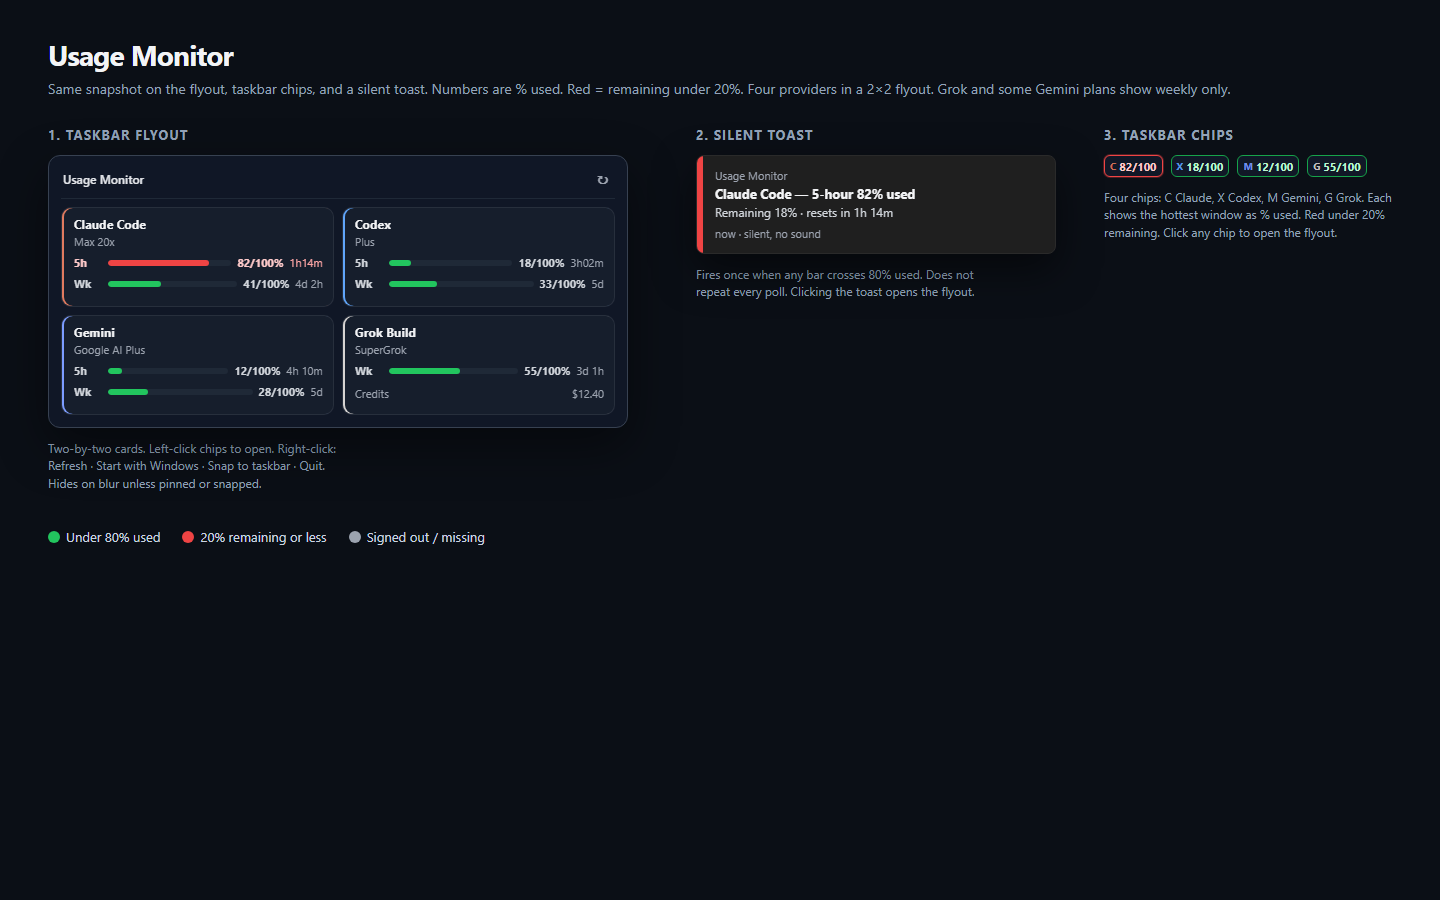
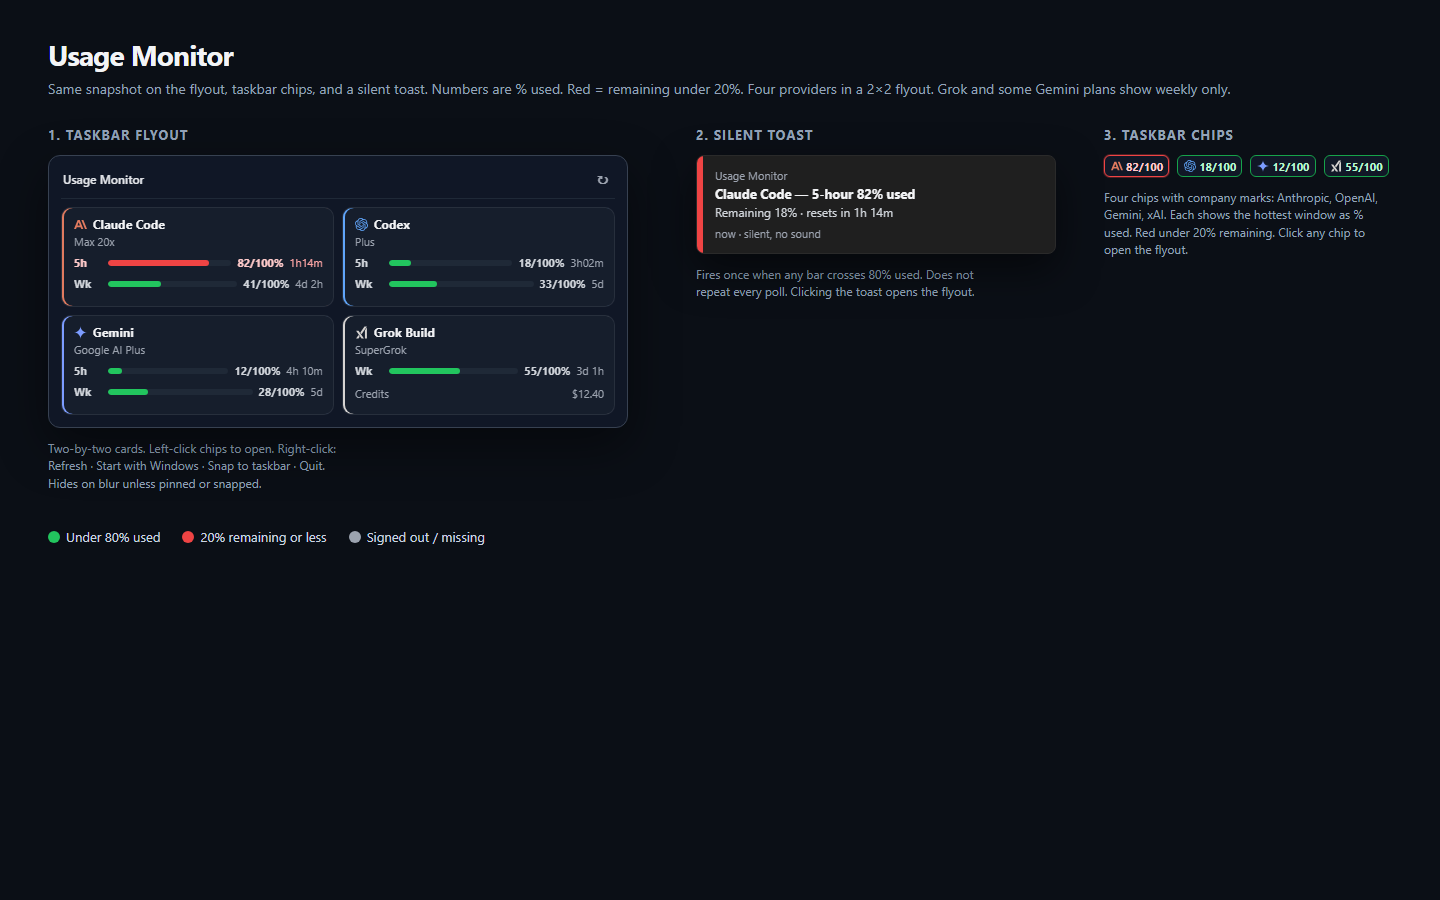
Show company marks on chips and flyout instead of letter initials.
Use the Anthropic, OpenAI, Gemini, and xAI symbols in the live UI and refresh the README screenshots to match.

diff --git a/src/ui/format.js b/src/ui/format.js
@@ -70,6 +70,23 @@ function formatUsedTotal(win, compact) {
   return compact ? `${used}/100` : `${used}/100%`;
 }
 
+const MARKS = {
+  claude:
+    "M17.304 3.541h-3.672l6.696 16.918H24Zm-10.608 0L0 20.459h3.744l1.37-3.553h7.005l1.369 3.553h3.744L10.536 3.541Zm-.371 10.223 2.291-5.946 2.292 5.946Z",
+  codex:
+    "M22.2819 9.8211a5.9847 5.9847 0 0 0-.5157-4.9108 6.0462 6.0462 0 0 0-6.5098-2.9A6.0651 6.0651 0 0 0 4.9807 4.1818a5.9847 5.9847 0 0 0-3.9977 2.9 6.0462 6.0462 0 0 0 .7427 7.0966 5.98 5.98 0 0 0 .511 4.9107 6.051 6.051 0 0 0 6.5146 2.9001A5.9847 5.9847 0 0 0 13.2599 24a6.0557 6.0557 0 0 0 5.7718-4.2058 5.9894 5.9894 0 0 0 3.9977-2.9001 6.0557 6.0557 0 0 0-.7475-7.0729zm-9.022 12.6081a4.4755 4.4755 0 0 1-2.8764-1.0408l.1419-.0804 4.7783-2.7582a.7948.7948 0 0 0 .3927-.6813v-6.7369l2.02 1.1686a.071.071 0 0 1 .038.052v5.5826a4.504 4.504 0 0 1-4.4945 4.4944zm-9.6607-4.1254a4.4708 4.4708 0 0 1-.5346-3.0137l.142.0852 4.783 2.7582a.7712.7712 0 0 0 .7806 0l5.8428-3.3685v2.3324a.0804.0804 0 0 1-.0332.0615L9.74 19.9502a4.4992 4.4992 0 0 1-6.1408-1.6464zM2.3408 7.8956a4.485 4.485 0 0 1 2.3655-1.9728V11.6a.7664.7664 0 0 0 .3879.6765l5.8144 3.3543-2.0201 1.1685a.0757.0757 0 0 1-.071 0l-4.8303-2.7865A4.504 4.504 0 0 1 2.3408 7.872zm16.5963 3.8558L13.1038 8.364 15.1192 7.2a.0757.0757 0 0 1 .071 0l4.8303 2.7913a4.4944 4.4944 0 0 1-.6765 8.1042v-5.6772a.79.79 0 0 0-.407-.667zm2.0107-3.0231l-.142-.0852-4.7735-2.7818a.7759.7759 0 0 0-.7854 0L9.409 9.2297V6.8974a.0662.0662 0 0 1 .0284-.0615l4.8303-2.7866a4.4992 4.4992 0 0 1 6.6802 4.66zM8.3065 12.863l-2.02-1.1638a.0804.0804 0 0 1-.038-.0567V6.0742a4.4992 4.4992 0 0 1 7.3757-3.4537l-.142.0805L8.704 5.459a.7948.7948 0 0 0-.3927.6813zm1.0976-2.3654l2.602-1.4998 2.6069 1.4998v2.9994l-2.5974 1.4997-2.6067-1.4997Z",
+  gemini:
+    "M11.04 19.32Q12 21.51 12 24q0-2.49.93-4.68.96-2.19 2.58-3.81t3.81-2.55Q21.51 12 24 12q-2.49 0-4.68-.93a12.3 12.3 0 0 1-3.81-2.58 12.3 12.3 0 0 1-2.58-3.81Q12 2.49 12 0q0 2.49-.96 4.68-.93 2.19-2.55 3.81a12.3 12.3 0 0 1-3.81 2.58Q2.49 12 0 12q2.49 0 4.68.96 2.19.93 3.81 2.55t2.55 3.81",
+  grok: "M6.469 8.776 16.512 23h-4.464L2.005 8.776H6.47zm-.004 7.9 2.233 3.164L6.467 23H2l4.465-6.324zM22 2.582V23h-3.659V7.764L22 2.582zM22 1l-9.952 14.095-2.233-3.163L17.533 1H22z",
+};
+
+function mark(id) {
+  const d = MARKS[id] || MARKS.grok;
+  const title =
+    id === "claude" ? "Anthropic" : id === "codex" ? "OpenAI" : id === "gemini" ? "Google Gemini" : "xAI";
+  return `<svg class="brand-mark" viewBox="0 0 24 24" fill-rule="evenodd" aria-hidden="true" focusable="false"><title>${title}</title><path fill="currentColor" d="${d}"/></svg>`;
+}
+
 function letter(id) {
   if (id === "claude") return "C";
   if (id === "codex") return "X";

diff --git a/src/ui/shared.css b/src/ui/shared.css
@@ -104,8 +104,9 @@ html.fit, html.fit body {
   min-width: 276px;
   background: rgba(31, 41, 55, 0.45); border: 1px solid #273244; border-radius: 10px;
 }
-.p-head { display: flex; flex-direction: row; align-items: baseline; justify-content: space-between; gap: 8px; margin-bottom: 6px; }
-.p-name { font-size: 12px; font-weight: 650; }
+.p-head { display: flex; flex-direction: row; align-items: center; justify-content: space-between; gap: 8px; margin-bottom: 6px; }
+.p-name { font-size: 12px; font-weight: 650; display: inline-flex; align-items: center; gap: 6px; }
+.brand-mark { width: 13px; height: 13px; flex: 0 0 13px; display: block; }
 .overlay .p-name { font-size: 13px; }
 .p-plan { font-size: 11px; color: var(--muted); }
 .accent-claude { box-shadow: inset 2px 0 0 var(--claude); }
@@ -221,11 +222,19 @@ html.fit, html.fit body {
   font-size: 11px; font-weight: 700; font-variant-numeric: tabular-nums; cursor: pointer;
   white-space: nowrap; flex: 0 0 auto;
 }
-.pct-icon .who { font-weight: 650; opacity: 0.9; font-size: 10px; }
+.pct-icon .who {
+  display: inline-flex; align-items: center; justify-content: center;
+  width: 13px; height: 13px; flex: 0 0 13px;
+}
+.pct-icon .who .brand-mark { width: 12px; height: 12px; }
 .pct-icon[data-id="claude"] .who { color: var(--claude); }
 .pct-icon[data-id="codex"] .who { color: var(--codex); }
 .pct-icon[data-id="gemini"] .who { color: var(--gemini); }
 .pct-icon[data-id="grok"] .who { color: var(--grok); }
+.accent-claude .p-name .brand-mark { color: var(--claude); }
+.accent-codex .p-name .brand-mark { color: var(--codex); }
+.accent-gemini .p-name .brand-mark { color: var(--gemini); }
+.accent-grok .p-name .brand-mark { color: var(--grok); }
 .pct-icon.red { color: #fecaca; border-color: #ef4444; }
 .pct-icon.green { color: #bbf7d0; border-color: #16a34a; }
 .pct-icon.gray { color: #9ca3af; border-color: #6b7280; }

diff --git a/src/ui/flyout.js b/src/ui/flyout.js
@@ -33,7 +33,7 @@ function render(snapshot) {
   for (const p of snapshot.providers || []) {
     const hint = statusText(p);
     parts.push(`<section class="provider accent-${p.id}" data-id="${p.id}">
-      <div class="p-head"><span class="p-name">${p.display_name}</span><span class="p-plan">${p.plan || ""}${p.status && p.status.state === "stale" ? '<span class="badge">stale</span>' : ""}</span></div>`);
+      <div class="p-head"><span class="p-name">${mark(p.id)}<span>${p.display_name}</span></span><span class="p-plan">${p.plan || ""}${p.status && p.status.state === "stale" ? '<span class="badge">stale</span>' : ""}</span></div>`);
     if (hint && !(p.windows && p.windows.length)) {
       parts.push(`<div class="hint">${hint}</div>`);
     } else {

diff --git a/src/ui/chips.js b/src/ui/chips.js
@@ -21,7 +21,7 @@ function render(snapshot) {
       num = formatUsedTotal(win, true);
       cls = alerting(win) ? "red" : "green";
     }
-    parts.push(`<div class="pct-icon ${cls}" data-id="${p.id}" title="${p.display_name}"><span class="who">${letter(p.id)}</span>${num}</div>`);
+    parts.push(`<div class="pct-icon ${cls}" data-id="${p.id}" title="${p.display_name}"><span class="who">${mark(p.id)}</span>${num}</div>`);
   }
   root.innerHTML = parts.join("");
   requestAnimationFrame(() => {

diff --git a/README.md b/README.md
@@ -11,17 +11,17 @@ It reuses the logins those CLIs already stored on disk. No API keys. Nothing is 
 | Surface | What it does |
 | --- | --- |
 | **Flyout** | Two-by-two provider cards (5-hour / weekly, `used/total %`). **Open flyout** / **Hide flyout**. **Snap flyout to taskbar** / **Unsnap flyout from taskbar** parks the panel just above the taskbar. |
-| **Chips** | Small `C 82/100` strip **on** the taskbar (`C` Claude, `X` Codex, `M` Gemini, `G` Grok). **Snap chips to taskbar** / **Unsnap chips from taskbar**. |
+| **Chips** | Small strip **on** the taskbar with each company’s mark (Anthropic, OpenAI, Gemini, xAI) plus `82/100`. **Snap chips to taskbar** / **Unsnap chips from taskbar**. |
 | **Toast** | Silent red Windows notification the first time a bar crosses 80% used. |
 
 ![UI overview](docs/screenshots/overview.png)
 
-| Chip | Provider | Windows shown |
+| Mark | Provider | Windows shown |
 | --- | --- | --- |
-| **C** | Claude Code | 5-hour and weekly |
-| **X** | Codex | 5-hour and weekly |
-| **M** | Gemini (Antigravity CLI / Gemini CLI) | Gemini model 5-hour and weekly when the API reports them |
-| **G** | Grok Build | Weekly only (no 5-hour bar) |
+| Anthropic | Claude Code | 5-hour and weekly |
+| OpenAI | Codex | 5-hour and weekly |
+| Gemini | Gemini (Antigravity CLI / Gemini CLI) | Gemini model 5-hour and weekly when the API reports them |
+| xAI | Grok Build | Weekly only (no 5-hour bar) |
 
 Grok has a **weekly** pool only. Gemini shows the **Gemini model** pools from Antigravity (`agy`) or Gemini CLI; some plans report weekly only.
 
@@ -113,7 +113,7 @@ Meters show **used/total %** (for example `82/100%`), not remaining. A full 5-ho
 
 | Symptom | What to try |
 | --- | --- |
-| Gray `C` / `X` / `M` / `G` | Open that CLI once and sign in (`claude`, `codex login`, `agy`, `grok`). If the CLI is missing, run `npm run setup`. |
+| Gray company mark | Open that CLI once and sign in (`claude`, `codex login`, `agy`, `grok`). If the CLI is missing, run `npm run setup`. |
 | No chips on the taskbar | Right-click flyout → **Show chips on taskbar**. They sit in an empty gap, not over the clock. |
 | Flyout missing | Right-click chips → **Open flyout** |
 | Claude stuck / stale | The usage API rate-limits aggressive polling. The app backs off and keeps the last good numbers |
